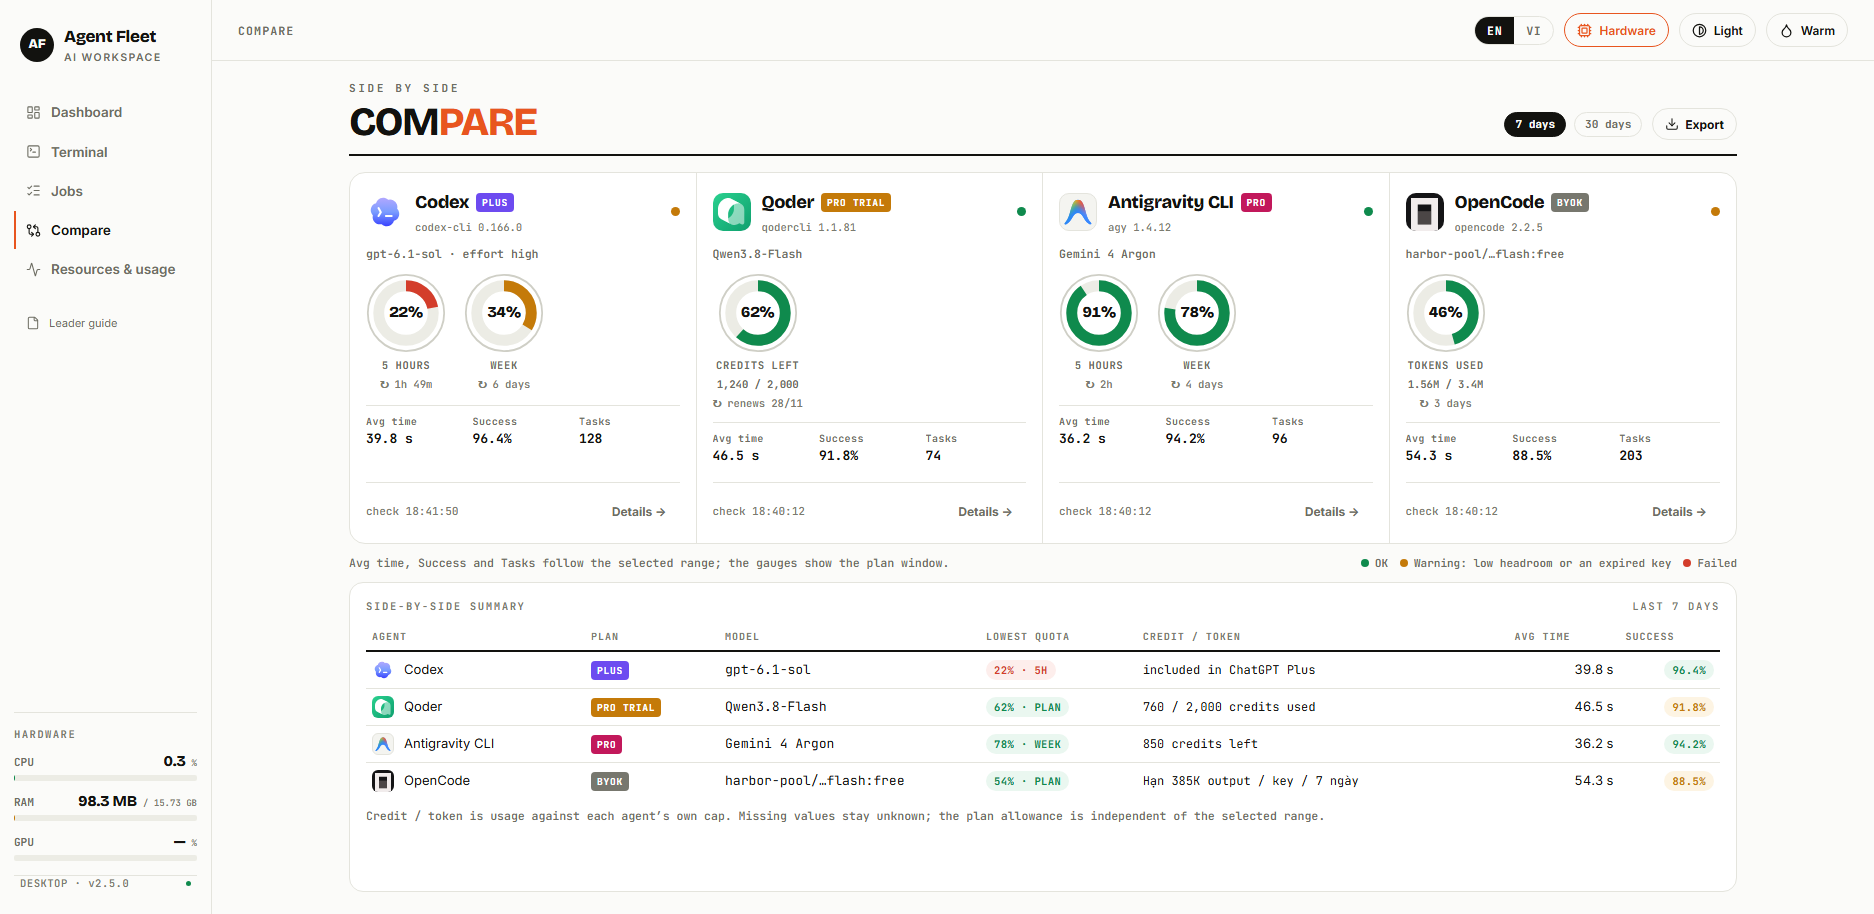
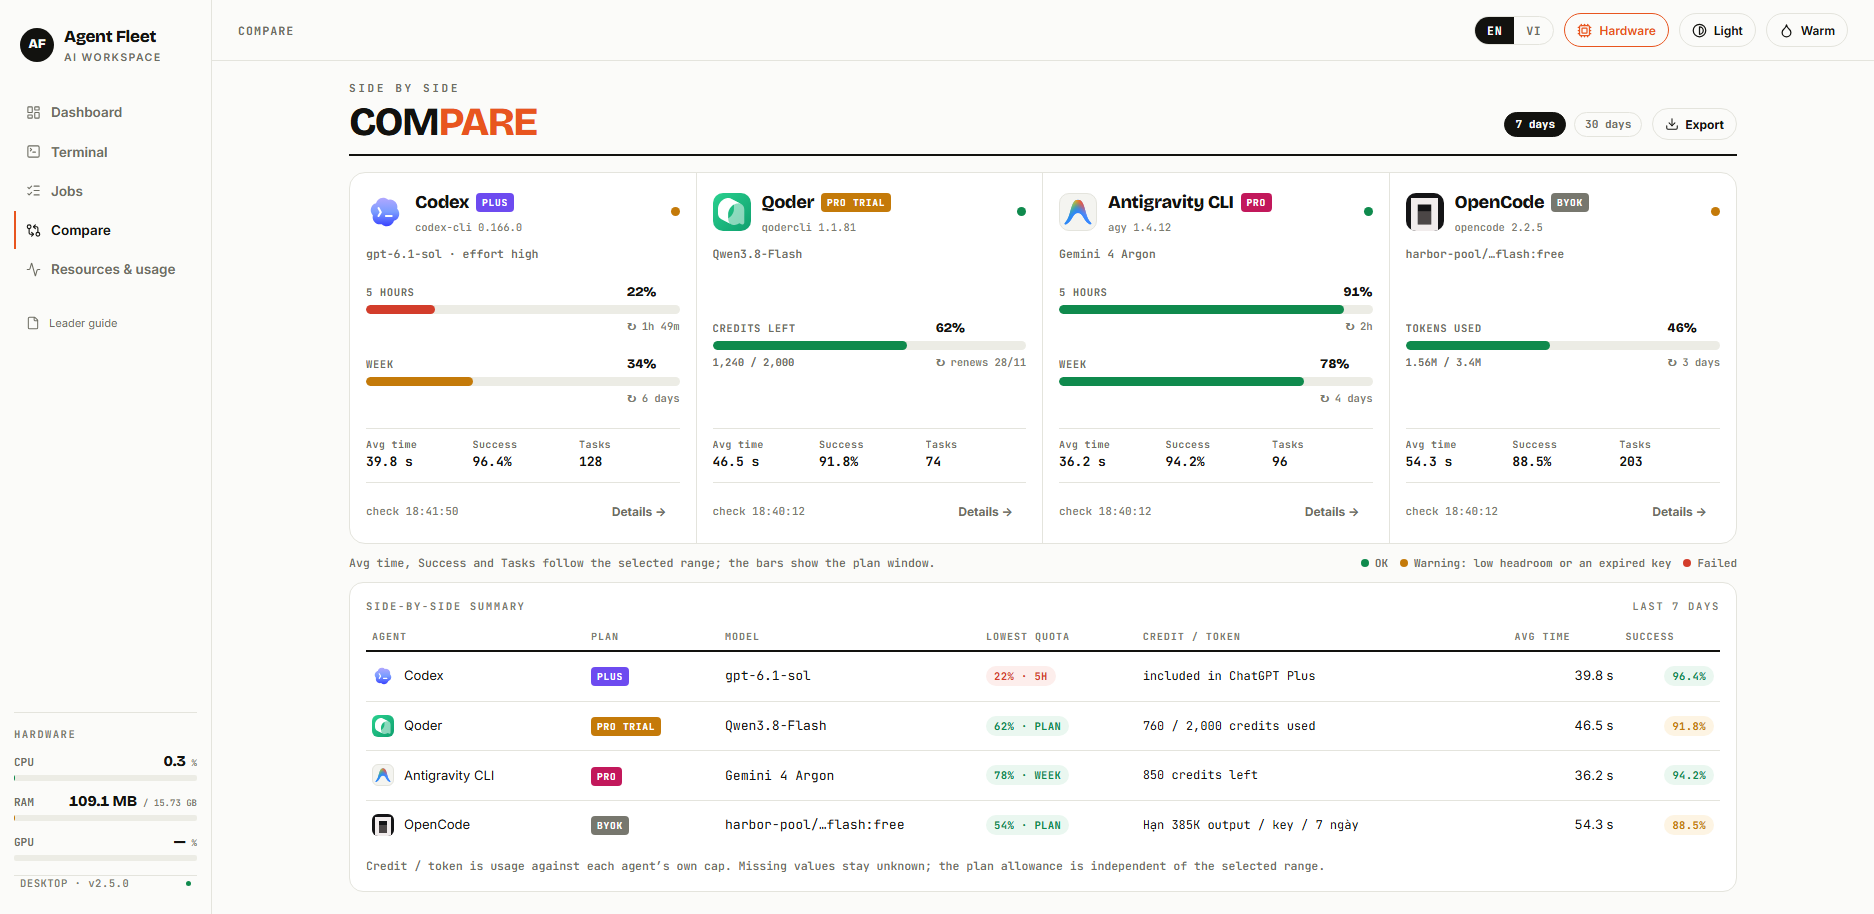
web: compare draws quotas as bars
Compare stacks four accounts in narrow columns, so the ring spent the width
its label needed. Each quota is now a horizontal meter: caption and percent on
one line, the bar under it, then the absolute figure and reset time. The bar
area takes the card's slack and the summary rows share the panel height, so
neither ends in a dead band. The dashboard keeps its rings.

Adds a Bar component with the same rounding and tone rules as Ring, updates
the compare caption from "gauges" to "bars", and locks the design with unit
and e2e assertions.

diff --git a/web/src/ui/Compare.tsx b/web/src/ui/Compare.tsx
@@ -3,25 +3,26 @@ import type { DashboardAgent, DashboardCheck, DashboardTool } from '../../../sha
 import type { Plan } from '../../../shared/types.js';
 import type { CliWorkspace } from '../cli-workspace.js';
 import { Icon } from '../components/Icon.js';
-import { AgentHeader, CheckTime, Gauge, Legend, Logo, Notice, PageHead, PeriodPicker, Stats, Tier } from './Common.js';
+import { AgentHeader, Bar, CheckTime, Legend, Logo, Notice, PageHead, PeriodPicker, Stats, Tier } from './Common.js';
 import { useLanguage } from './language.js';
 import { agentNames, creditWindow, download, duration, known, lowestQuota, quotaRows, rate, tone, useStats } from './model.js';
 
 export function ComparisonGauges({ tool }: { tool: DashboardTool }) {
   const { t, language } = useLanguage(); const check = tool.lastCheck;
   const rows = quotaRows(check); const credit = creditWindow(check) ?? rows.filter(row => row.unit === 'credits' && known(row.remainingPct)).sort((a, b) => a.remainingPct! - b.remainingPct!)[0];
-  if (tool.agent === 'qodercli') return <div className="gauges"><Gauge pct={credit?.remainingPct} label={credit && rows.filter(row => row.unit === 'credits').length > 1 ? credit.group : t('Credits left', 'Credit còn lại')} number={known(credit?.limit) && known(credit?.used) ? `${(credit.limit - credit.used).toLocaleString(language)} / ${credit.limit.toLocaleString(language)}` : known(check?.credits.remaining) ? check.credits.remaining.toLocaleString(language) : null} reset={credit?.resetAt} /></div>;
+  const windowLabels: Record<string, string> = { '5h': t('5 hours', '5 giờ'), week: t('Week', 'Tuần'), day: t('Day', 'Ngày'), month: t('Month', 'Tháng') };
+  if (tool.agent === 'qodercli') return <div className="gbars"><Bar pct={credit?.remainingPct} label={credit && rows.filter(row => row.unit === 'credits').length > 1 ? credit.group : t('Credits left', 'Credit còn lại')} number={known(credit?.limit) && known(credit?.used) ? `${(credit.limit - credit.used).toLocaleString(language)} / ${credit.limit.toLocaleString(language)}` : known(check?.credits.remaining) ? check.credits.remaining.toLocaleString(language) : null} reset={credit?.resetAt} /></div>;
   if (tool.agent === 'opencode' && rows.some(row => row.unit === 'tokens' && known(row.limit) && row.limit > 0 && known(row.used))) {
     const row = rows.find(row => row.unit === 'tokens' && known(row.limit) && row.limit > 0 && known(row.used))!;
-    return <div className="gauges"><Gauge used pct={row.used! / row.limit! * 100} label={t('Tokens used', 'Token đã dùng')} number={`${(row.used! / 1e6).toFixed(2)}M / ${+(row.limit! / 1e6).toFixed(2)}M`} reset={row.resetAt} /></div>;
+    return <div className="gbars"><Bar used pct={row.used! / row.limit! * 100} label={t('Tokens used', 'Token đã dùng')} number={`${(row.used! / 1e6).toFixed(2)}M / ${+(row.limit! / 1e6).toFixed(2)}M`} reset={row.resetAt} /></div>;
   }
   if (tool.agent === 'opencode' && !rows.length) {
     const pool = check?.keyPools?.[0];
-    return <div className="gauges"><Gauge pct={pool?.remainingPct} label={t('Key pool left', 'Key pool còn lại')} number={pool && known(pool.remainingPct) ? `${pool.ok} / ${pool.total} ${t('keys available', 'key còn hạn mức')}` : null} reset={pool?.resetAt} /></div>;
+    return <div className="gbars"><Bar pct={pool?.remainingPct} label={t('Key pool left', 'Key pool còn lại')} number={pool && known(pool.remainingPct) ? `${pool.ok} / ${pool.total} ${t('keys available', 'key còn hạn mức')}` : null} reset={pool?.resetAt} /></div>;
   }
   const firstGroup = rows[0]?.group;
   const selected = tool.agent === 'agy' ? rows.filter(row => row.group === firstGroup).slice(0, 2) : rows.slice(0, 2);
-  return <div className="gauges">{selected.length ? selected.map(row => <Gauge key={`${row.group}/${row.window}`} row={row} />) : <Gauge pct={null} label={t('Quota left', 'Hạn mức còn lại')} />}</div>;
+  return <div className="gbars">{selected.length ? selected.map(row => <Bar key={`${row.group}/${row.window}`} pct={row.remainingPct} label={windowLabels[row.window] ?? row.window} reset={row.resetAt} />) : <Bar pct={null} label={t('Quota left', 'Hạn mức còn lại')} />}</div>;
 }
 
 export function CreditText({ check }: { check?: DashboardCheck | null }) {
@@ -46,7 +47,7 @@ export function Compare({ cli, plans, onDetails }: { cli: CliWorkspace; plans: P
       {tools.map(tool => <article className="card" data-tool={tool.agent} key={tool.agent}><AgentHeader tool={tool} /><div className="statusline" title={tool.lastCheck?.currentModel?.id}>{tool.lastCheck?.currentModel?.label ?? t('Model not reported', 'Chưa đọc được model')}{tool.lastCheck?.currentModel?.effort ? ` · effort ${tool.lastCheck.currentModel.effort}` : ''}</div><ComparisonGauges tool={tool} /><Stats stats={stats.error || !stats.loaded ? undefined : byAgent.get(tool.agent)} /><footer className="foot"><CheckTime tool={tool} /><button className="btn ghost" onClick={() => onDetails(tool.agent)}>{t('Details', 'Chi tiết')} →</button></footer></article>)}
       {!cli.snapshot && [0, 1, 2, 3].map(index => <article className="card skeleton-card" key={index}><div /><div /><div /></article>)}
     </div>
-    <div className="noterow"><p className="tablenote">{t('Avg time, Success and Tasks follow the selected range; the gauges show the plan window.', 'Thời gian TB, Thành công và Số công việc theo khoảng ngày đang chọn; vòng hạn mức là cửa sổ gói hiện tại.')}</p><Legend /></div>
+    <div className="noterow"><p className="tablenote">{t('Avg time, Success and Tasks follow the selected range; the bars show the plan window.', 'Thời gian TB, Thành công và Số công việc theo khoảng ngày đang chọn; thanh hạn mức là cửa sổ gói hiện tại.')}</p><Legend /></div>
     <section className="panel summary fill"><h4>{t('Side-by-side summary', 'Bảng tổng hợp')}<span className="spacer">{t(`Last ${days} days`, `${days} ngày gần nhất`)}</span></h4><div className="tscroll"><table className="table compare-table" aria-label={t('Agent comparison', 'So sánh agent')}><thead><tr>{[t('Agent', 'Agent'), t('Plan', 'Gói'), 'Model', t('Lowest quota', 'Hạn mức thấp nhất'), t('Credit / token', 'Credit / token'), t('Avg time', 'Thời gian TB'), t('Success', 'Thành công')].map(label => <th key={label}>{label}</th>)}</tr></thead><tbody>
       {tools.map(tool => { const check = tool.lastCheck; const quota = lowestQuota(check); const row = stats.error || !stats.loaded ? undefined : byAgent.get(tool.agent); return <tr key={tool.agent}><td><span className="row"><Logo agent={tool.agent} small />{agentNames[tool.agent]}</span></td><td><Tier check={check} /></td><td className="model mono" title={check?.currentModel?.id}>{check?.currentModel?.label ?? '—'}</td><td>{quota ? <span className={`badge ${tone(quota.remainingPct)}`}>{quota.remainingPct}% · {quota.window}</span> : <span className="badge plain">{t('No data', 'Chưa có dữ liệu')}</span>}</td><td><div className="mono small"><CreditText check={check} /></div></td><td className="num">{duration(row?.avgDurationMs)}</td><td className="num"><span className={`badge ${!known(row?.successRate) ? 'plain' : row.successRate >= .94 ? 'ok' : 'warn'}`}>{rate(row?.successRate)}</span></td></tr>; })}
       {stats.rows.filter(row => !tools.some(tool => tool.agent === row.agent)).map(row => <tr key={row.agent}><td>{agentNames[row.agent]}</td><td>—</td><td>—</td><td>—</td><td>—</td><td className="num">{duration(row.avgDurationMs)}</td><td className="num">{rate(row.successRate)}</td></tr>)}

diff --git a/web/src/styles/reference-compare.css b/web/src/styles/reference-compare.css
@@ -16,8 +16,7 @@
   .cmp{grid-template-columns:1fr}
   .cmp .card{padding:14px;border-right:0;border-bottom:1px solid var(--border)}
   .cmp .card:last-child{border-bottom:0}
-  .cmp .gauges{gap:12px}
-  .cmp .gauge{min-width:64px}
+  .cmp .gbars{gap:12px}
 }
 
 /* long unbreakable labels (e.g. harbor-pool/...flash:free) must wrap */
@@ -26,10 +25,20 @@
 /* Time-window chips (.filters, button.chip) and the summary table frame
    (.tscroll) come from assets/pages.css. */
 
-/* Gauge geometry is shared with the dashboard: same data, same 80 px ring.
-   .donut.sm is reserved for the dense Antigravity matrix on the dashboard,
-   where three models x two windows have to fit one card row — so a 56 px
-   ring is a density choice there, not a second way to draw the same number. */
+/* ---- gauges are bars here, rings on the dashboard -------------------------
+   Four accounts sit side by side in narrow columns, so a ring spends the width
+   its label needs. Each quota is a horizontal meter instead: caption and
+   percent on one line, the bar under it, then the absolute figure (left) and
+   reset time (right). The dashboard keeps the donut. */
+.cmp .gbars{display:flex;flex-direction:column;gap:11px;flex:1;justify-content:space-evenly;min-height:0}
+.cmp .gbar{display:grid;grid-template-columns:minmax(0,1fr) auto;grid-template-areas:"cap pct" "meter meter" "num reset";
+  align-items:baseline;column-gap:8px;row-gap:5px;min-width:0}
+.cmp .gbar .g-cap{grid-area:cap;text-align:left;white-space:nowrap;overflow:hidden;text-overflow:ellipsis}
+.cmp .gbar .pct{grid-area:pct;font:800 13px var(--display);font-variant-numeric:tabular-nums;color:var(--ink)}
+.cmp .gbar .meter{grid-area:meter;position:relative;height:9px;border-radius:999px;background:var(--track);overflow:hidden}
+.cmp .gbar .meter i{position:absolute;inset:0 auto 0 0;width:calc(var(--pct) * 1%);background:var(--col,var(--ok));border-radius:inherit}
+.cmp .gbar .g-num{grid-area:num;text-align:left}
+.cmp .gbar .g-reset{grid-area:reset;text-align:right}
 
 /* per-agent stat row and the last-job link now live in app.css, because the
    dashboard cards use the same two blocks */
@@ -40,18 +49,23 @@
 /* note + status legend share one line under the cards (.noterow, .legend
    live in app.css because the dashboard uses them too) */
 
-/* the summary panel takes the leftover height of the window */
-.summary{margin-top:10px;padding:16px}
+/* the summary panel takes the leftover height and its rows share it, so the
+   panel never ends in a dead band */
+.summary{margin-top:10px;padding:16px;display:flex;flex-direction:column}
 .summary h4{margin-bottom:10px}
-.summary .tscroll{overflow-x:auto}
-.summary td{padding:7px 6px}
+.summary .tscroll{overflow-x:auto;flex:1;min-height:0}
+.summary table{height:100%}
+.summary td{padding:7px 6px;vertical-align:middle}
 .summary .tablenote{margin-top:8px}
 
-/* short window: shrink the rings, drop the two long captions */
+/* short window: tighten the bars, drop the two long captions */
 @media(max-height:870px),(max-width:1250px){
   .cmp .card{padding:12px;gap:10px}
   .stats{padding-top:6px}
-  .donut{--donut:64px}
+  .cmp .gbars{gap:8px}
+  .cmp .gbar{row-gap:4px}
+  .cmp .gbar .pct{font-size:12px}
+  .cmp .gbar .meter{height:7px}
   .summary h4{margin-bottom:6px}
   .summary td{padding:5px 6px}
   .summary .tablenote,.noterow .tablenote{display:none}

diff --git a/web/src/ui/Common.tsx b/web/src/ui/Common.tsx
@@ -25,6 +25,20 @@ export function Ring({ pct, small = false, label, used = false }: { pct: number 
   const colour = tone(precise === null ? null : used ? 100 - precise : precise);
   return <div className={`donut${small ? ' sm' : ''} ${colour}`} style={{ '--pct': precise === null ? 0 : Math.round(precise * 10) / 10, '--col': precise === null ? 'var(--faint)' : `var(--${colour})` } as CSSProperties} role="img" aria-label={`${label}: ${value === null ? '—' : value + '%'}`}><svg viewBox="0 0 44 44" aria-hidden="true"><circle className="edge" cx="22" cy="22" r="21" /><circle className="trk" cx="22" cy="22" r="15" />{precise !== null && <circle className="val" cx="22" cy="22" r="15" pathLength="100" />}</svg><span className="pct">{value === null ? '—' : `${value}%`}</span></div>;
 }
+export function Bar({ pct, label, number, reset, used = false }: { pct: number | null | undefined; label: string; number?: string | null; reset?: string | null; used?: boolean }) {
+  const precise = known(pct) ? Math.max(0, Math.min(100, pct)) : null;
+  const value = precise === null ? null : Math.round(precise);
+  const colour = tone(precise === null ? null : used ? 100 - precise : precise);
+  const parsedReset = reset ? Date.parse(reset) : NaN;
+  const resetLabel = Number.isFinite(parsedReset) ? new Date(parsedReset).toLocaleDateString(undefined, { day: '2-digit', month: '2-digit' }) : reset;
+  return <div className={`gbar ${colour}`} style={{ '--pct': precise === null ? 0 : Math.round(precise * 10) / 10, '--col': precise === null ? 'var(--faint)' : `var(--${colour})` } as CSSProperties}>
+    <span className="g-cap">{label}</span>
+    <span className="pct">{value === null ? '—' : `${value}%`}</span>
+    <span className="meter" aria-hidden="true"><i /></span>
+    {number && <span className="g-num">{number}</span>}
+    {reset && <span className="g-reset" title={reset}>↻ {resetLabel}</span>}
+  </div>;
+}
 export function Gauge({ row, pct, label, number, reset, used = false }: { row?: QuotaWindow; pct?: number | null; label?: string; number?: string | null; reset?: string | null; used?: boolean }) {
   const { t } = useLanguage(); const windowLabels: Record<string, string> = { '5h': t('5 hours', '5 giờ'), week: t('Week', 'Tuần'), day: t('Day', 'Ngày'), month: t('Month', 'Tháng') };
   // A quota row carries its own unit: when the number is a "used" percentage a

diff --git a/test/e2e/reference-ui.spec.ts b/test/e2e/reference-ui.spec.ts
@@ -18,6 +18,10 @@ test('the app uses the OpenCode navigation shell and compare composition', async
   await expect(side.locator('.task-row,.sidebar-search,.new-task-button')).toHaveCount(0);
   await page.getByRole('button', { name: 'Compare', exact: true }).click();
   await expect(page.locator('.cmp > .card')).toHaveCount(4);
+  // Compare draws quotas as bars (rounding to a whole percent), while the
+  // dashboard keeps the rings.
+  await expect(page.locator('.cmp .gbar')).toHaveCount(6);
+  await expect(page.locator('.cmp .donut')).toHaveCount(0);
   await expect(page.locator('.summary table')).toBeVisible();
   await expect(page.getByRole('button', { name: 'Hardware', exact: true })).toBeVisible();
   await expect(page.getByRole('button', { name: 'EN', exact: true })).toHaveAttribute('aria-pressed', 'true');

diff --git a/test/web/reference-ui.test.ts b/test/web/reference-ui.test.ts
@@ -25,7 +25,8 @@ describe('reference UI preserves the meaning of real CLI data', () => {
   test('used token gauge uses remaining headroom to determine its color', () => {
     const c = check([{ group: 'Pool', window: 'plan', unit: 'tokens', used: 46, limit: 100, remainingPct: 54 }]);
     const markup = html(createElement(ComparisonGauges, { tool: tool(c, 'opencode') }));
-    expect(markup).toContain('46%'); expect(markup).toContain('donut ok');
+    expect(markup).toContain('46%'); expect(markup).toContain('gbar ok');
+    expect(markup).toContain('meter');
     expect(html(createElement(Ring, { pct: 92, used: true, label: 'Used' }))).toContain('donut bad');
   });
   test('ring labels are whole percents, so a decimal never runs over the ring', () => {
